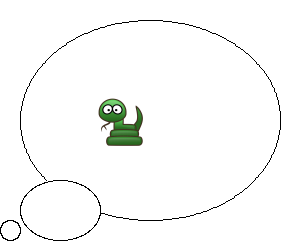
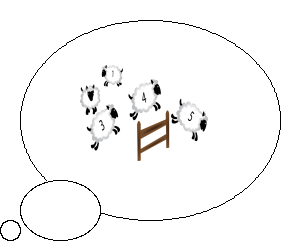
removed all the fixed values, now everything can be chosen at instance creation

Changed region(s): [[0.27, 0.2593, 0.69, 0.6626]]

diff --git a/xkaa.py b/xkaa.py
@@ -19,6 +19,9 @@ from PIL import ImageDraw
 from PIL import Image
 import textwrap
 
+imgdir = "images"
+fontdir = "fonts"
+
 
 def combine_sources(posx,posy,img1,img2,final):
 	output = final
@@ -33,23 +36,24 @@ def combine_sources(posx,posy,img1,img2,final):
 
 class Puppet():
 		
-	def __init__(self,verb=None,text=None,dreamed=None):
+	def __init__(self,character=None,verb=None,text=None,dreamed=None,font=None,fontcolor=(0,0,0)):
 		
 		self.imgW = 640
 		self.imgH = 520
-		self.imagefile = "images/absnake.png"
-		self.sayballoon = "images/say.png"
-		self.dreamballoon = "images/dream.png"
-		self.thinkballoon = "images/dream.png"
-		self.shoutballoon = "images/shout.png"
-		self.dreambase = "images/dreambase.png"
-		self.minidream = "images/minidream.png"
-		self.empty = "images/empty.png"
-		self.balloonbase = "images/balloonbase.png"
-		self.fontfile = "fonts/BonvenoCF-Light.otf"
+		self.character = character
+		self.font = font
+		self.imgdir = imgdir
+		self.imagefile = os.path.join(self.imgdir,self.character+".png")
+		self.dreamballoon = os.path.join(self.imgdir,"dream.png")
+		self.dreambase = os.path.join(self.imgdir,"dreambase.png")
+		self.minidream = os.path.join(self.imgdir,"minidream.png")
+		self.empty = os.path.join(self.imgdir,"empty.png")
+		self.balloonbase = os.path.join(self.imgdir,"balloonbase.png")
+		self.fontdir = fontdir
+		self.fontfile = os.path.join(self.fontdir,self.font)
 		self.title = "xKaa"
 		self.dreamed = dreamed
-		self.fontcolor = (0,0,0)
+		self.fontcolor = fontcolor
 
 		self.verb = verb
                 self.text = text
